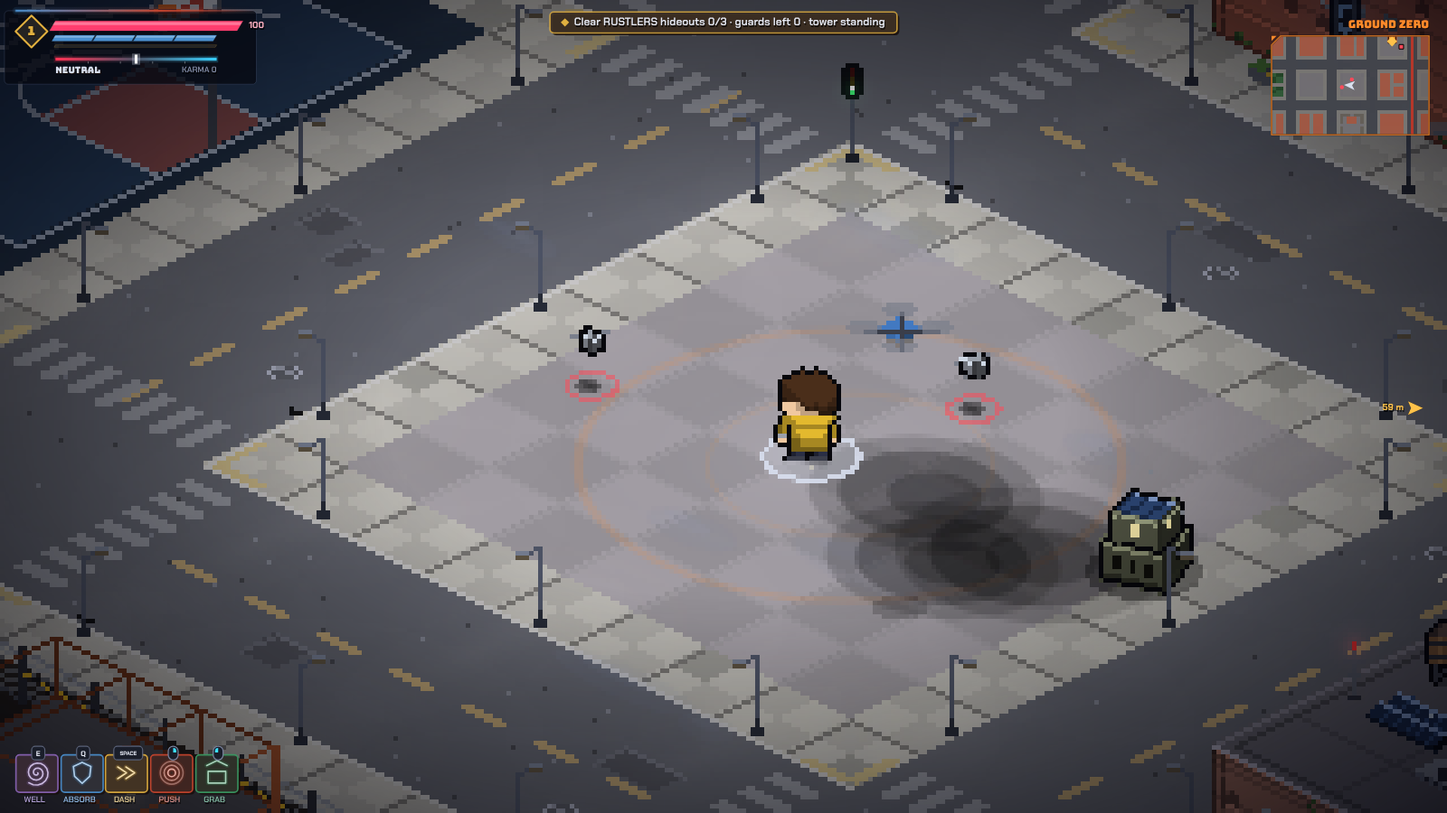
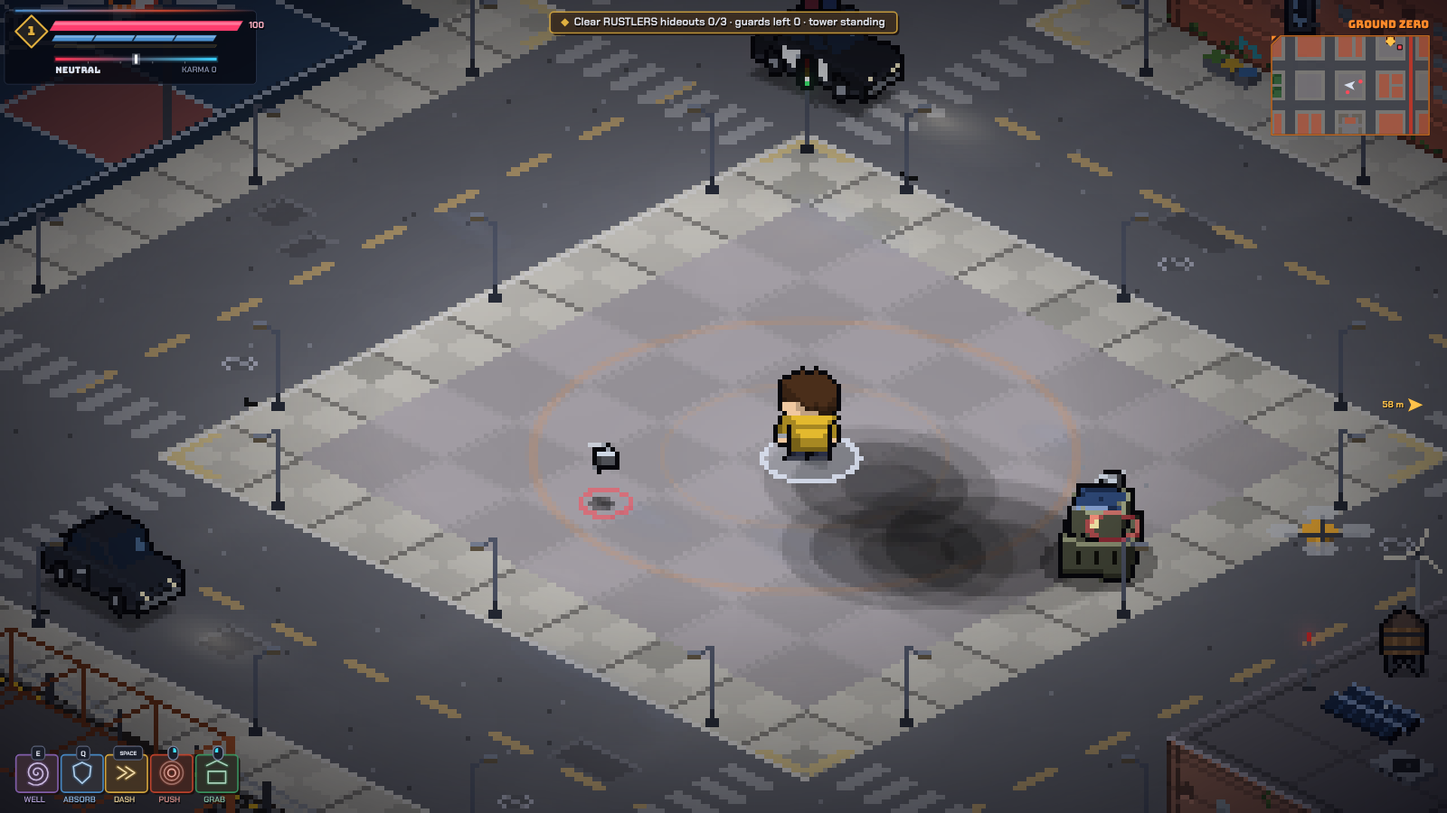
Readable fights: attack turns, longer tells, thin laser-line warnings
Only two enemies may wind up an attack on you at once (bosses exempt);
in a crowd of thirteen that cut simultaneous wind-ups from eight to at
most three and halved the hits taken. Tells were added or lengthened:
mites stop, flash and lunge along a line; the elite's fan and the
Architect's blink fan are warned first; boss throws show their line
before the throw; the pull's closing burst is signalled. Line warnings
are now a thin laser-pointer line from the attacker instead of a wide
band on the ground.

Claude-Session: https://claude.ai/code/session_01TQrqJid8SEs5fJFtrpg3VS

diff --git a/dist/gravitation.html b/dist/gravitation.html
@@ -1838,6 +1838,18 @@ function shoot(e, ang, o = {}) {
   bullets.push({ x: e.x + Math.cos(ang) * (e.r + 5), y: e.y + Math.sin(ang) * (e.r + 5), vx: Math.cos(ang) * sp, vy: Math.sin(ang) * sp, team: e.team, dmg: o.dmg || 7, life: o.life || 2.2, col: o.col || (e.team === 'police' ? '#8fc0ff' : '#ffcf5a'), r: o.r || 3, by: e.kind, fire: o.fire });
   if (!o.quiet) { sfx(o.fire ? 'zap' : 'shot', e.x, e.y, .7); FX.flash(e.x + Math.cos(ang) * (e.r + 8), e.y + Math.sin(ang) * (e.r + 8), 46, o.col || '#ffd27a', .07, .9); }
 }
+/* ---------- attack turns ----------
+   Fights are a rhythm, not a pile-on: only a few enemies may wind up an attack on you at the same moment (bosses and
+   anything not aimed at you are exempt). An enemy that cannot get a turn keeps moving and tries again shortly. Every
+   attack also has a tell you can read: an aim laser, a warning shape on the ground, a flash or a crouch. */
+const MAX_TURNS = 2, turns = [];
+function takeTurn(e, dur) {
+  if (e.kind === 'boss' || e.tgt !== P) return true;
+  const now = G.time; for (let i = turns.length - 1; i >= 0; i--) if (turns[i].until < now || turns[i].e.dead || turns[i].e.stun > 0) turns.splice(i, 1);
+  if (turns.some(t => t.e === e)) return true;
+  if (turns.length >= MAX_TURNS) { e.cd = Math.max(e.cd, rnd(.3, .7)); return false; }
+  turns.push({ e, until: now + dur }); return true;
+}
 function warnLine(x, y, ang, len, w, life, col = '#ff3355') { warns.push({ k: 'line', x, y, ang, len, w, life, max: life, col }); }
 function warnCircle(x, y, r, life, col = '#ff3355') { warns.push({ k: 'circle', x, y, r, life, max: life, col }); }
 
@@ -1893,7 +1905,7 @@ function aiGunman(e, dt) {
   if (!seen || d > pref + 50) chase(e, t, e.speed, dt);
   else if (d < pref - 70) steer(e, -nx, -ny, e.speed * .8, dt);
   else steer(e, -ny * e.strafeDir, nx * e.strafeDir, e.speed * .6, dt);
-  if (seen && d < 400 && e.cd <= 0) { e.aimT = .42; }
+  if (seen && d < 400 && e.cd <= 0 && takeTurn(e, 1.1)) { e.aimT = .55; }   // the aim laser is the tell
 }
 function aiBrute(e, dt) {
   const t = e.tgt, dx = t.x - e.x, dy = t.y - e.y, d = Math.hypot(dx, dy) || 1;
@@ -1914,8 +1926,8 @@ function aiBrute(e, dt) {
   }
   face(e, Math.atan2(dy, dx), dt, 7);
   chase(e, t, e.speed, dt);
-  if (d < e.r + t.r + 22 && e.cd <= 0) { e.state = 'slamWind'; e.stateT = .45; warnCircle(e.x, e.y, 70, .45); }
-  else if (d > 120 && d < 330 && e.cd2 <= 0 && seesTarget(e)) { e.state = 'chargeWind'; e.stateT = .6; e.cang = Math.atan2(dy, dx); e.cd2 = 4.5; warnLine(e.x, e.y, e.cang, 300, e.r * 2, .6); sfx('charge', e.x, e.y); }
+  if (d < e.r + t.r + 22 && e.cd <= 0 && takeTurn(e, 1)) { e.state = 'slamWind'; e.stateT = .6; warnCircle(e.x, e.y, 70, .6); }
+  else if (d > 120 && d < 330 && e.cd2 <= 0 && seesTarget(e) && takeTurn(e, 1.4)) { e.state = 'chargeWind'; e.stateT = .6; e.cang = Math.atan2(dy, dx); e.cd2 = 4.5; warnLine(e.x, e.y, e.cang, 300, e.r * 2, .6); sfx('charge', e.x, e.y); }
 }
 function slamAt(e, R, dmg, by) {
   FX.ring(e.x, e.y, R, '#ffae60', .3, 4); FX.dust(e.x, e.y, 12); sfx('heavy', e.x, e.y); shake(.35);
@@ -1930,13 +1942,13 @@ function aiSuper(e, dt) {
   face(e, Math.atan2(dy, dx), dt, 12);
   e.dashT = (e.dashT || 0) - dt; e.cd2 = (e.cd2 === undefined ? 1.6 : e.cd2) - dt;
   if (e.dashT > 0) { e.vx = e.dvx; e.vy = e.dvy; parts.push({ k: 'g', x: e.x, y: e.y, ang: e.ang, life: .25, max: .25, col: '#b66bff', sup: 1 }); return; }
-  if (e.cd2 <= 0 && d < 420 && seen) {
+  if (e.cd2 <= 0 && d < 420 && seen && takeTurn(e, 1)) {
     const s = Math.random() < .5 ? 1 : -1; e.dvx = (-dy / d * s * .8 + dx / d * .3) * 480; e.dvy = (dx / d * s * .8 + dy / d * .3) * 480; e.dashT = .26; e.cd2 = 2.8; sfx('dash', e.x, e.y, .6);
-    later(.32, () => {
-      if (e.dead || e.stun > 0 || !e.tgt) return; const a0 = Math.atan2(e.tgt.y - e.y, e.tgt.x - e.x);
+    later(.6, () => {   // the fan comes .6 s after the dash, with its warning cone shown the whole time
+      if (e.dead || e.stun > 0 || !e.tgt) return; const a0 = e.fanAng !== undefined ? e.fanAng : Math.atan2(e.tgt.y - e.y, e.tgt.x - e.x);
       for (let i = -2; i <= 2; i++) shoot(e, a0 + i * .17, { dmg: 7, speed: 250, col: '#d9a6ff', r: 4, quiet: i !== 0 });
     });
-    later(.06, () => { if (!e.dead && e.tgt) warnLine(e.x, e.y, Math.atan2(e.tgt.y - e.y, e.tgt.x - e.x), 260, 40, .26, '#c080ff'); });
+    later(.28, () => { if (!e.dead && e.tgt) { e.fanAng = Math.atan2(e.tgt.y - e.y, e.tgt.x - e.x); warnLine(e.x, e.y, e.fanAng, 260, 70, .32, '#c080ff'); } });
     return;
   }
   if (d > 230 || !seen) chase(e, t, e.speed, dt); else steer(e, -dy, dx, e.speed * .7, dt);
@@ -1989,7 +2001,8 @@ function aiBoss(e, dt) {
     const pull = 330 * dt; P.vx -= dx / d * pull * 2.4; P.vy -= dy / d * pull * 2.4;
     for (const o of act) if (o.prop && !o.held && dist(o, e) < 340) { o.vx += (e.x - o.x) / (dist(o, e) || 1) * 500 * dt; o.vy += (e.y - o.y) / (dist(o, e) || 1) * 500 * dt; }
     if (Math.random() < .7) { const a = rnd(TAU), r = rnd(80, 220); parts.push({ k: 'd', x: e.x + Math.cos(a) * r, y: e.y + Math.sin(a) * r, vx: -Math.cos(a) * 260, vy: -Math.sin(a) * 260, life: .4, max: .4, col: '#c9a6ff', w: 2 }); }
-    if (e.actT <= 0) { e.act = ''; radial(e, ph2 ? 22 : 16, 230, '#c9a6ff'); }
+    if (e.actT <= .5 && !e.pullWarned) { e.pullWarned = true; warnCircle(e.x, e.y, 120, .5, '#c9a6ff'); }   // the burst at the end of the pull is signalled
+    if (e.actT <= 0) { e.act = ''; e.pullWarned = false; radial(e, ph2 ? 22 : 16, 230, '#c9a6ff'); }
     return;
   }
   if (e.act === 'hurl' || e.act === 'volley') {
@@ -1999,12 +2012,16 @@ function aiBoss(e, dt) {
       o.vx = (e.x + Math.cos(a) * rr - o.x) * 10; o.vy = (e.y + Math.sin(a) * rr - o.y) * 10; o.z = 20;
     }
     if (e.actT <= 0) {
-      const o = e.lifted.shift();
-      if (o && !o.dead) {
-        o.bossHeld = null; o.held = false; const a = Math.atan2(P.y + P.vy * .3 - o.y, P.x + P.vx * .3 - o.x), sp = e.did === 2 ? 560 : 520;
-        o.vx = Math.cos(a) * sp; o.vy = Math.sin(a) * sp; o.thrower = 'boss'; o.thrownT = 1.6; o.spin = rnd(-10, 10); sfx('throw', o.x, o.y); warnLine(o.x, o.y, a, 360, o.r * 2, .25, '#ff3355');
+      const o = e.lifted[0];
+      if (o && !o.dead && !o.aimed) {   // the tell: a warning line from the object to where it will go, for .45 s, then the throw
+        o.aimed = true; o.aimA = Math.atan2(P.y + P.vy * .3 - o.y, P.x + P.vx * .3 - o.x); warnLine(o.x, o.y, o.aimA, 360, o.r * 2, .45, '#ff3355'); e.actT = .45; return;
       }
-      if (e.lifted.length) e.actT = e.did === 2 ? .45 : .6; else e.act = '';
+      e.lifted.shift();
+      if (o && !o.dead) {
+        o.bossHeld = null; o.held = false; o.aimed = false; const a = o.aimA, sp = e.did === 2 ? 560 : 520;
+        o.vx = Math.cos(a) * sp; o.vy = Math.sin(a) * sp; o.thrower = 'boss'; o.thrownT = 1.6; o.spin = rnd(-10, 10); sfx('throw', o.x, o.y);
+      }
+      if (e.lifted.length) e.actT = e.did === 2 ? .35 : .5; else e.act = '';
     }
     return;
   }
@@ -2047,7 +2064,8 @@ function aiBoss(e, dt) {
     if (p) {
       for (let i = 0; i < 6; i++) parts.push({ k: 'g', x: lerp(e.x, p.x, i / 6), y: lerp(e.y, p.y, i / 6), ang: e.ang, life: .4, max: .4, col: e.col, boss: 1 });
       FX.flash(e.x, e.y, 120, '#b06bff', .3); e.x = p.x; e.y = p.y; e.vx = e.vy = 0; FX.flash(e.x, e.y, 120, '#b06bff', .3); sfx('zap', e.x, e.y);
-      later(.35, () => { if (!e.dead && e.stagger <= 0) { const a0 = Math.atan2(P.y - e.y, P.x - e.x); for (let i = -2; i <= 2; i++) shoot(e, a0 + i * .2, { speed: 280, col: '#d9a6ff', dmg: 8, r: 4, quiet: i !== 0 }); } });
+      const a0b = Math.atan2(P.y - e.y, P.x - e.x); warnLine(e.x, e.y, a0b, 280, 90, .55, '#c080ff');   // a warning cone where the fan will go
+      later(.55, () => { if (!e.dead && e.stagger <= 0) { for (let i = -2; i <= 2; i++) shoot(e, a0b + i * .2, { speed: 280, col: '#d9a6ff', dmg: 8, r: 4, quiet: i !== 0 }); } });
     }
   }
 }
@@ -2181,7 +2199,7 @@ function aiTower(e, dt) {
   if (lk.aimT > 0) {
     lk.aimT -= dt;
     if (lk.aimT <= 0) { shoot(e, Math.atan2(P.y - e.y, P.x - e.x) + rnd(-.06, .06), { dmg: 7 }); e.cd = 1.4 + rnd(.9); }
-  } else if (e.cd <= 0) lk.aimT = .42;
+  } else if (e.cd <= 0 && takeTurn({ kind: 'tower', tgt: P, dead: e.dead, stun: 0, cd: 0 }, 1)) lk.aimT = .55;
 }
 
 /* ---------- per tick ---------- */
@@ -2507,7 +2525,7 @@ function aiMachine(e, dt) {
     if (!on || !e.losC) { e.aimT = 0; e.ang += dt * .9; return; }
     e.ang += angDiff(Math.atan2(P.y - e.y, P.x - e.x), e.ang) * Math.min(1, dt * 7);
     if (e.aimT > 0) { e.aimT -= dt; if (e.aimT <= 0) { for (let i = 0; i < 3; i++) later(i * .11, () => { if (!e.dead) shoot(e, e.ang + rnd(-.07, .07), { dmg: 5, speed: 340, col: '#ffd27a' }); }); e.cd = 1.8 + rnd(.6); } }
-    else if (e.cd <= 0) e.aimT = .6;
+    else if (e.cd <= 0 && takeTurn(Object.assign(e, { tgt: P }), 1.2)) e.aimT = .7;
     return;
   }
   if (k === 'hive') {      // a mite hive: a squat solar-topped box that releases mites while you are near
@@ -2551,7 +2569,7 @@ function aiMachine(e, dt) {
     }
     e.orb = e.orb || (Math.random() < .5 ? 1 : -1); if (Math.random() < dt * .3) e.orb *= -1;
     if (!seen || d > 230) chase(e, t, e.speed, dt); else if (d < 130) steer(e, -dx, -dy, e.speed, dt); else steer(e, -dy * e.orb, dx * e.orb, e.speed * .7, dt);
-    if (seen && d < 240 && e.cd <= 0) { e.chargeT = .75; e.cang = Math.atan2(dy, dx); warnLine(e.x, e.y, e.cang, 250, 8, .75, ZAP_COL); sfx('charge', e.x, e.y, .5); }
+    if (seen && d < 240 && e.cd <= 0 && takeTurn(e, 1.1)) { e.chargeT = .75; e.cang = Math.atan2(dy, dx); warnLine(e.x, e.y, e.cang, 250, 8, .75, ZAP_COL); sfx('charge', e.x, e.y, .5); }
     return;
   }
   if (k === 'crawler') {   // runs at you on four legs; close enough, it arms its battery and bursts
@@ -2563,8 +2581,16 @@ function aiMachine(e, dt) {
   if (k === 'mite') {      // darts in, nips, darts out
     e.dartT = (e.dartT || 0) - dt;
     if (e.dartT > 0) { steer(e, e.fx, e.fy, e.speed * 1.1, dt, 12); return; }
-    face(e, Math.atan2(dy, dx), dt, 14); steer(e, dx + rnd(-30, 30), dy + rnd(-30, 30), e.speed, dt, 10);
-    if (d < e.r + t.r + 4 && e.cd <= 0) { if (t === P && P.absorbing) absorb(4); else hurt(t, 4, { by: 'gang', src: e }); FX.sparks(t.x, t.y, 4, ZAP_COL, 140); sfx('zap', e.x, e.y, .3); e.cd = .9; e.dartT = .45; const a = rnd(TAU); e.fx = Math.cos(a); e.fy = Math.sin(a); }
+    if (e.lungeT > 0) {   // the tell: it stops, its eye flashes for .4 s, then it lunges in a straight line
+      e.lungeT -= dt; if (e.lungeT > .15) { steer(e, 0, 0, 0, dt, 12); return; }
+      steer(e, e.lx, e.ly, e.speed * 2.2, dt, 14);
+      if (d < e.r + t.r + 4) { if (t === P && P.absorbing) absorb(4); else hurt(t, 5, { by: 'gang', src: e }); FX.sparks(t.x, t.y, 4, ZAP_COL, 140); sfx('zap', e.x, e.y, .3); e.lungeT = 0; e.cd = 1.4; e.dartT = .5; const a = rnd(TAU); e.fx = Math.cos(a); e.fy = Math.sin(a); }
+      if (e.lungeT <= 0 && e.dartT <= 0) { e.cd = 1; e.dartT = .3; e.fx = -e.lx; e.fy = -e.ly; }
+      return;
+    }
+    face(e, Math.atan2(dy, dx), dt, 14);
+    if (d > 70) steer(e, dx + rnd(-30, 30), dy + rnd(-30, 30), e.speed, dt, 10); else steer(e, -dy * (e.id % 2 ? 1 : -1), dx * (e.id % 2 ? 1 : -1), e.speed * .7, dt, 8);   // circles at a little distance
+    if (d < 70 && e.cd <= 0 && takeTurn(e, .8)) { e.lungeT = .55; e.lx = dx / d; e.ly = dy / d; warnLine(e.x, e.y, Math.atan2(dy, dx), 80, 10, .4, ZAP_COL); sfx('charge', e.x, e.y, .25); }
     return;
   }
   if (k === 'loader') { e.tgt = t; aiBrute(e, dt); return; }
@@ -2572,7 +2598,7 @@ function aiMachine(e, dt) {
     if (e.dropT > 0) { e.dropT -= dt; steer(e, e.dx - e.x, e.dy - e.y, e.speed * 1.4, dt, 6); if (e.dropT <= 0) { explosion(e.dx, e.dy, 52, 18, 'gang'); e.cd = 3.2; e.parcel = false; later(2.4, () => { if (!e.dead) e.parcel = true; }); } return; }
     face(e, Math.atan2(dy, dx), dt, 6); e.orb = e.orb || (Math.random() < .5 ? 1 : -1);
     if (d > 160) chase(e, t, e.speed, dt); else steer(e, -dy * e.orb + dx * .2, dx * e.orb + dy * .2, e.speed * .8, dt);
-    if (e.parcel !== false && d < 220 && e.cd <= 0) { e.dx = t.x + (t.vx || 0) * .5; e.dy = t.y + (t.vy || 0) * .5; e.dropT = .9; warnCircle(e.dx, e.dy, 52, .9, '#ff9a3a'); sfx('charge', e.x, e.y, .4); }
+    if (e.parcel !== false && d < 220 && e.cd <= 0 && takeTurn(e, 1.2)) { e.dx = t.x + (t.vx || 0) * .5; e.dy = t.y + (t.vy || 0) * .5; e.dropT = .9; warnCircle(e.dx, e.dy, 52, .9, '#ff9a3a'); sfx('charge', e.x, e.y, .4); }
     return;
   }   // a heavy walker: slams and charges like a brute
 }
@@ -7090,10 +7116,11 @@ function drawWarns() {
       ctx.globalAlpha = .18 + .2 * k; gDither(w.x, w.y, w.r, col);
       ctx.globalAlpha = blink ? 1 : .6; gRing(w.x, w.y, w.r, col); gRing(w.x, w.y, w.r * k, mix(col, '#ffffff', .4));
     } else {
-      const c = Math.cos(w.ang), s = Math.sin(w.ang), nx = -s * w.w / 2, ny = c * w.w / 2;
-      const quad = len => [isoXY(w.x + nx, w.y + ny), isoXY(w.x + c * len + nx, w.y + s * len + ny), isoXY(w.x + c * len - nx, w.y + s * len - ny), isoXY(w.x - nx, w.y - ny)];
-      ctx.globalAlpha = .22; ipoly(quad(w.len), col); ctx.globalAlpha = .45 + .2 * k; ipoly(quad(w.len * k), col);
-      ctx.globalAlpha = blink ? 1 : .6; const q = quad(w.len); for (let i = 0; i < 4; i++) iline(q[i], q[(i + 1) % 4], col);
+      // a thin laser-pointer line from the attacker, not a band on the ground (the user finds big floor markings gaudy).
+      // It draws out from the attacker as the wind-up runs and blinks faster just before the attack.
+      const c = Math.cos(w.ang), s = Math.sin(w.ang), L = w.len * Math.min(1, .35 + k * .9), a0 = isoXY(w.x, w.y, 8), a1 = isoXY(w.x + c * L, w.y + s * L, 8);
+      const fast = k > .7 ? Math.sin(G.time * 60) > 0 : blink;
+      ctx.globalAlpha = fast ? .95 : .55; iline(a0, a1, col); ipx(a1[0], a1[1], '#ffffff');
     }
     ctx.globalAlpha = 1;
   }
@@ -8536,7 +8563,7 @@ function drawMachine(e) {
     const hov = (e.def.hover || 12) + Math.sin(t * 7 + e.id) * 1.2, P3 = mframe(e, hov); mshadow(e, 3, 1.5);
     const spin = Math.floor(t * 30) & 1;
     for (const v of [-4, 4]) { const c = P3(0, v, 4); iellipse(c[0], c[1], 2, 1, spin ? '#c8ccd6' : '#7a7f8c'); }
-    pixBox(e, P3, 0, 6, 5, 0, 4, W('#8a8e98'), W('#9aa0aa'), (i, quad) => { if (i === 0) quad(i, .35, .65, 1.5, 3, Math.sin(t * 9 + e.id) > 0 ? '#ff5a3a' : '#5a1a10'); });
+    const tell = e.lungeT > .15; pixBox(e, P3, 0, 6, 5, 0, 4, W(tell ? '#ffffff' : '#8a8e98'), W(tell ? '#ffffff' : '#9aa0aa'), (i, quad) => { if (i === 0) quad(i, .35, .65, 1.5, 3, tell || Math.sin(t * 9 + e.id) > 0 ? '#ff5a3a' : '#5a1a10'); }); if (tell) { const c = P3(0, 0, 2); iglow(c[0], c[1], 6, '#fff0b0', .6); }
     return;
   }
   if (k === 'crawler') {   // repo crawler: a low body on four legs, a battery pack on its back

diff --git a/src/js/09_ai.js b/src/js/09_ai.js
@@ -49,6 +49,18 @@ function shoot(e, ang, o = {}) {
   bullets.push({ x: e.x + Math.cos(ang) * (e.r + 5), y: e.y + Math.sin(ang) * (e.r + 5), vx: Math.cos(ang) * sp, vy: Math.sin(ang) * sp, team: e.team, dmg: o.dmg || 7, life: o.life || 2.2, col: o.col || (e.team === 'police' ? '#8fc0ff' : '#ffcf5a'), r: o.r || 3, by: e.kind, fire: o.fire });
   if (!o.quiet) { sfx(o.fire ? 'zap' : 'shot', e.x, e.y, .7); FX.flash(e.x + Math.cos(ang) * (e.r + 8), e.y + Math.sin(ang) * (e.r + 8), 46, o.col || '#ffd27a', .07, .9); }
 }
+/* ---------- attack turns ----------
+   Fights are a rhythm, not a pile-on: only a few enemies may wind up an attack on you at the same moment (bosses and
+   anything not aimed at you are exempt). An enemy that cannot get a turn keeps moving and tries again shortly. Every
+   attack also has a tell you can read: an aim laser, a warning shape on the ground, a flash or a crouch. */
+const MAX_TURNS = 2, turns = [];
+function takeTurn(e, dur) {
+  if (e.kind === 'boss' || e.tgt !== P) return true;
+  const now = G.time; for (let i = turns.length - 1; i >= 0; i--) if (turns[i].until < now || turns[i].e.dead || turns[i].e.stun > 0) turns.splice(i, 1);
+  if (turns.some(t => t.e === e)) return true;
+  if (turns.length >= MAX_TURNS) { e.cd = Math.max(e.cd, rnd(.3, .7)); return false; }
+  turns.push({ e, until: now + dur }); return true;
+}
 function warnLine(x, y, ang, len, w, life, col = '#ff3355') { warns.push({ k: 'line', x, y, ang, len, w, life, max: life, col }); }
 function warnCircle(x, y, r, life, col = '#ff3355') { warns.push({ k: 'circle', x, y, r, life, max: life, col }); }
 
@@ -104,7 +116,7 @@ function aiGunman(e, dt) {
   if (!seen || d > pref + 50) chase(e, t, e.speed, dt);
   else if (d < pref - 70) steer(e, -nx, -ny, e.speed * .8, dt);
   else steer(e, -ny * e.strafeDir, nx * e.strafeDir, e.speed * .6, dt);
-  if (seen && d < 400 && e.cd <= 0) { e.aimT = .42; }
+  if (seen && d < 400 && e.cd <= 0 && takeTurn(e, 1.1)) { e.aimT = .55; }   // the aim laser is the tell
 }
 function aiBrute(e, dt) {
   const t = e.tgt, dx = t.x - e.x, dy = t.y - e.y, d = Math.hypot(dx, dy) || 1;
@@ -125,8 +137,8 @@ function aiBrute(e, dt) {
   }
   face(e, Math.atan2(dy, dx), dt, 7);
   chase(e, t, e.speed, dt);
-  if (d < e.r + t.r + 22 && e.cd <= 0) { e.state = 'slamWind'; e.stateT = .45; warnCircle(e.x, e.y, 70, .45); }
-  else if (d > 120 && d < 330 && e.cd2 <= 0 && seesTarget(e)) { e.state = 'chargeWind'; e.stateT = .6; e.cang = Math.atan2(dy, dx); e.cd2 = 4.5; warnLine(e.x, e.y, e.cang, 300, e.r * 2, .6); sfx('charge', e.x, e.y); }
+  if (d < e.r + t.r + 22 && e.cd <= 0 && takeTurn(e, 1)) { e.state = 'slamWind'; e.stateT = .6; warnCircle(e.x, e.y, 70, .6); }
+  else if (d > 120 && d < 330 && e.cd2 <= 0 && seesTarget(e) && takeTurn(e, 1.4)) { e.state = 'chargeWind'; e.stateT = .6; e.cang = Math.atan2(dy, dx); e.cd2 = 4.5; warnLine(e.x, e.y, e.cang, 300, e.r * 2, .6); sfx('charge', e.x, e.y); }
 }
 function slamAt(e, R, dmg, by) {
   FX.ring(e.x, e.y, R, '#ffae60', .3, 4); FX.dust(e.x, e.y, 12); sfx('heavy', e.x, e.y); shake(.35);
@@ -141,13 +153,13 @@ function aiSuper(e, dt) {
   face(e, Math.atan2(dy, dx), dt, 12);
   e.dashT = (e.dashT || 0) - dt; e.cd2 = (e.cd2 === undefined ? 1.6 : e.cd2) - dt;
   if (e.dashT > 0) { e.vx = e.dvx; e.vy = e.dvy; parts.push({ k: 'g', x: e.x, y: e.y, ang: e.ang, life: .25, max: .25, col: '#b66bff', sup: 1 }); return; }
-  if (e.cd2 <= 0 && d < 420 && seen) {
+  if (e.cd2 <= 0 && d < 420 && seen && takeTurn(e, 1)) {
     const s = Math.random() < .5 ? 1 : -1; e.dvx = (-dy / d * s * .8 + dx / d * .3) * 480; e.dvy = (dx / d * s * .8 + dy / d * .3) * 480; e.dashT = .26; e.cd2 = 2.8; sfx('dash', e.x, e.y, .6);
-    later(.32, () => {
-      if (e.dead || e.stun > 0 || !e.tgt) return; const a0 = Math.atan2(e.tgt.y - e.y, e.tgt.x - e.x);
+    later(.6, () => {   // the fan comes .6 s after the dash, with its warning cone shown the whole time
+      if (e.dead || e.stun > 0 || !e.tgt) return; const a0 = e.fanAng !== undefined ? e.fanAng : Math.atan2(e.tgt.y - e.y, e.tgt.x - e.x);
       for (let i = -2; i <= 2; i++) shoot(e, a0 + i * .17, { dmg: 7, speed: 250, col: '#d9a6ff', r: 4, quiet: i !== 0 });
     });
-    later(.06, () => { if (!e.dead && e.tgt) warnLine(e.x, e.y, Math.atan2(e.tgt.y - e.y, e.tgt.x - e.x), 260, 40, .26, '#c080ff'); });
+    later(.28, () => { if (!e.dead && e.tgt) { e.fanAng = Math.atan2(e.tgt.y - e.y, e.tgt.x - e.x); warnLine(e.x, e.y, e.fanAng, 260, 70, .32, '#c080ff'); } });
     return;
   }
   if (d > 230 || !seen) chase(e, t, e.speed, dt); else steer(e, -dy, dx, e.speed * .7, dt);
@@ -200,7 +212,8 @@ function aiBoss(e, dt) {
     const pull = 330 * dt; P.vx -= dx / d * pull * 2.4; P.vy -= dy / d * pull * 2.4;
     for (const o of act) if (o.prop && !o.held && dist(o, e) < 340) { o.vx += (e.x - o.x) / (dist(o, e) || 1) * 500 * dt; o.vy += (e.y - o.y) / (dist(o, e) || 1) * 500 * dt; }
     if (Math.random() < .7) { const a = rnd(TAU), r = rnd(80, 220); parts.push({ k: 'd', x: e.x + Math.cos(a) * r, y: e.y + Math.sin(a) * r, vx: -Math.cos(a) * 260, vy: -Math.sin(a) * 260, life: .4, max: .4, col: '#c9a6ff', w: 2 }); }
-    if (e.actT <= 0) { e.act = ''; radial(e, ph2 ? 22 : 16, 230, '#c9a6ff'); }
+    if (e.actT <= .5 && !e.pullWarned) { e.pullWarned = true; warnCircle(e.x, e.y, 120, .5, '#c9a6ff'); }   // the burst at the end of the pull is signalled
+    if (e.actT <= 0) { e.act = ''; e.pullWarned = false; radial(e, ph2 ? 22 : 16, 230, '#c9a6ff'); }
     return;
   }
   if (e.act === 'hurl' || e.act === 'volley') {
@@ -210,12 +223,16 @@ function aiBoss(e, dt) {
       o.vx = (e.x + Math.cos(a) * rr - o.x) * 10; o.vy = (e.y + Math.sin(a) * rr - o.y) * 10; o.z = 20;
     }
     if (e.actT <= 0) {
-      const o = e.lifted.shift();
-      if (o && !o.dead) {
-        o.bossHeld = null; o.held = false; const a = Math.atan2(P.y + P.vy * .3 - o.y, P.x + P.vx * .3 - o.x), sp = e.did === 2 ? 560 : 520;
-        o.vx = Math.cos(a) * sp; o.vy = Math.sin(a) * sp; o.thrower = 'boss'; o.thrownT = 1.6; o.spin = rnd(-10, 10); sfx('throw', o.x, o.y); warnLine(o.x, o.y, a, 360, o.r * 2, .25, '#ff3355');
+      const o = e.lifted[0];
+      if (o && !o.dead && !o.aimed) {   // the tell: a warning line from the object to where it will go, for .45 s, then the throw
+        o.aimed = true; o.aimA = Math.atan2(P.y + P.vy * .3 - o.y, P.x + P.vx * .3 - o.x); warnLine(o.x, o.y, o.aimA, 360, o.r * 2, .45, '#ff3355'); e.actT = .45; return;
       }
-      if (e.lifted.length) e.actT = e.did === 2 ? .45 : .6; else e.act = '';
+      e.lifted.shift();
+      if (o && !o.dead) {
+        o.bossHeld = null; o.held = false; o.aimed = false; const a = o.aimA, sp = e.did === 2 ? 560 : 520;
+        o.vx = Math.cos(a) * sp; o.vy = Math.sin(a) * sp; o.thrower = 'boss'; o.thrownT = 1.6; o.spin = rnd(-10, 10); sfx('throw', o.x, o.y);
+      }
+      if (e.lifted.length) e.actT = e.did === 2 ? .35 : .5; else e.act = '';
     }
     return;
   }
@@ -258,7 +275,8 @@ function aiBoss(e, dt) {
     if (p) {
       for (let i = 0; i < 6; i++) parts.push({ k: 'g', x: lerp(e.x, p.x, i / 6), y: lerp(e.y, p.y, i / 6), ang: e.ang, life: .4, max: .4, col: e.col, boss: 1 });
       FX.flash(e.x, e.y, 120, '#b06bff', .3); e.x = p.x; e.y = p.y; e.vx = e.vy = 0; FX.flash(e.x, e.y, 120, '#b06bff', .3); sfx('zap', e.x, e.y);
-      later(.35, () => { if (!e.dead && e.stagger <= 0) { const a0 = Math.atan2(P.y - e.y, P.x - e.x); for (let i = -2; i <= 2; i++) shoot(e, a0 + i * .2, { speed: 280, col: '#d9a6ff', dmg: 8, r: 4, quiet: i !== 0 }); } });
+      const a0b = Math.atan2(P.y - e.y, P.x - e.x); warnLine(e.x, e.y, a0b, 280, 90, .55, '#c080ff');   // a warning cone where the fan will go
+      later(.55, () => { if (!e.dead && e.stagger <= 0) { for (let i = -2; i <= 2; i++) shoot(e, a0b + i * .2, { speed: 280, col: '#d9a6ff', dmg: 8, r: 4, quiet: i !== 0 }); } });
     }
   }
 }
@@ -392,7 +410,7 @@ function aiTower(e, dt) {
   if (lk.aimT > 0) {
     lk.aimT -= dt;
     if (lk.aimT <= 0) { shoot(e, Math.atan2(P.y - e.y, P.x - e.x) + rnd(-.06, .06), { dmg: 7 }); e.cd = 1.4 + rnd(.9); }
-  } else if (e.cd <= 0) lk.aimT = .42;
+  } else if (e.cd <= 0 && takeTurn({ kind: 'tower', tgt: P, dead: e.dead, stun: 0, cd: 0 }, 1)) lk.aimT = .55;
 }
 
 /* ---------- per tick ---------- */

diff --git a/src/js/09c_machines.js b/src/js/09c_machines.js
@@ -104,7 +104,7 @@ function aiMachine(e, dt) {
     if (!on || !e.losC) { e.aimT = 0; e.ang += dt * .9; return; }
     e.ang += angDiff(Math.atan2(P.y - e.y, P.x - e.x), e.ang) * Math.min(1, dt * 7);
     if (e.aimT > 0) { e.aimT -= dt; if (e.aimT <= 0) { for (let i = 0; i < 3; i++) later(i * .11, () => { if (!e.dead) shoot(e, e.ang + rnd(-.07, .07), { dmg: 5, speed: 340, col: '#ffd27a' }); }); e.cd = 1.8 + rnd(.6); } }
-    else if (e.cd <= 0) e.aimT = .6;
+    else if (e.cd <= 0 && takeTurn(Object.assign(e, { tgt: P }), 1.2)) e.aimT = .7;
     return;
   }
   if (k === 'hive') {      // a mite hive: a squat solar-topped box that releases mites while you are near
@@ -148,7 +148,7 @@ function aiMachine(e, dt) {
     }
     e.orb = e.orb || (Math.random() < .5 ? 1 : -1); if (Math.random() < dt * .3) e.orb *= -1;
     if (!seen || d > 230) chase(e, t, e.speed, dt); else if (d < 130) steer(e, -dx, -dy, e.speed, dt); else steer(e, -dy * e.orb, dx * e.orb, e.speed * .7, dt);
-    if (seen && d < 240 && e.cd <= 0) { e.chargeT = .75; e.cang = Math.atan2(dy, dx); warnLine(e.x, e.y, e.cang, 250, 8, .75, ZAP_COL); sfx('charge', e.x, e.y, .5); }
+    if (seen && d < 240 && e.cd <= 0 && takeTurn(e, 1.1)) { e.chargeT = .75; e.cang = Math.atan2(dy, dx); warnLine(e.x, e.y, e.cang, 250, 8, .75, ZAP_COL); sfx('charge', e.x, e.y, .5); }
     return;
   }
   if (k === 'crawler') {   // runs at you on four legs; close enough, it arms its battery and bursts
@@ -160,8 +160,16 @@ function aiMachine(e, dt) {
   if (k === 'mite') {      // darts in, nips, darts out
     e.dartT = (e.dartT || 0) - dt;
     if (e.dartT > 0) { steer(e, e.fx, e.fy, e.speed * 1.1, dt, 12); return; }
-    face(e, Math.atan2(dy, dx), dt, 14); steer(e, dx + rnd(-30, 30), dy + rnd(-30, 30), e.speed, dt, 10);
-    if (d < e.r + t.r + 4 && e.cd <= 0) { if (t === P && P.absorbing) absorb(4); else hurt(t, 4, { by: 'gang', src: e }); FX.sparks(t.x, t.y, 4, ZAP_COL, 140); sfx('zap', e.x, e.y, .3); e.cd = .9; e.dartT = .45; const a = rnd(TAU); e.fx = Math.cos(a); e.fy = Math.sin(a); }
+    if (e.lungeT > 0) {   // the tell: it stops, its eye flashes for .4 s, then it lunges in a straight line
+      e.lungeT -= dt; if (e.lungeT > .15) { steer(e, 0, 0, 0, dt, 12); return; }
+      steer(e, e.lx, e.ly, e.speed * 2.2, dt, 14);
+      if (d < e.r + t.r + 4) { if (t === P && P.absorbing) absorb(4); else hurt(t, 5, { by: 'gang', src: e }); FX.sparks(t.x, t.y, 4, ZAP_COL, 140); sfx('zap', e.x, e.y, .3); e.lungeT = 0; e.cd = 1.4; e.dartT = .5; const a = rnd(TAU); e.fx = Math.cos(a); e.fy = Math.sin(a); }
+      if (e.lungeT <= 0 && e.dartT <= 0) { e.cd = 1; e.dartT = .3; e.fx = -e.lx; e.fy = -e.ly; }
+      return;
+    }
+    face(e, Math.atan2(dy, dx), dt, 14);
+    if (d > 70) steer(e, dx + rnd(-30, 30), dy + rnd(-30, 30), e.speed, dt, 10); else steer(e, -dy * (e.id % 2 ? 1 : -1), dx * (e.id % 2 ? 1 : -1), e.speed * .7, dt, 8);   // circles at a little distance
+    if (d < 70 && e.cd <= 0 && takeTurn(e, .8)) { e.lungeT = .55; e.lx = dx / d; e.ly = dy / d; warnLine(e.x, e.y, Math.atan2(dy, dx), 80, 10, .4, ZAP_COL); sfx('charge', e.x, e.y, .25); }
     return;
   }
   if (k === 'loader') { e.tgt = t; aiBrute(e, dt); return; }
@@ -169,7 +177,7 @@ function aiMachine(e, dt) {
     if (e.dropT > 0) { e.dropT -= dt; steer(e, e.dx - e.x, e.dy - e.y, e.speed * 1.4, dt, 6); if (e.dropT <= 0) { explosion(e.dx, e.dy, 52, 18, 'gang'); e.cd = 3.2; e.parcel = false; later(2.4, () => { if (!e.dead) e.parcel = true; }); } return; }
     face(e, Math.atan2(dy, dx), dt, 6); e.orb = e.orb || (Math.random() < .5 ? 1 : -1);
     if (d > 160) chase(e, t, e.speed, dt); else steer(e, -dy * e.orb + dx * .2, dx * e.orb + dy * .2, e.speed * .8, dt);
-    if (e.parcel !== false && d < 220 && e.cd <= 0) { e.dx = t.x + (t.vx || 0) * .5; e.dy = t.y + (t.vy || 0) * .5; e.dropT = .9; warnCircle(e.dx, e.dy, 52, .9, '#ff9a3a'); sfx('charge', e.x, e.y, .4); }
+    if (e.parcel !== false && d < 220 && e.cd <= 0 && takeTurn(e, 1.2)) { e.dx = t.x + (t.vx || 0) * .5; e.dy = t.y + (t.vy || 0) * .5; e.dropT = .9; warnCircle(e.dx, e.dy, 52, .9, '#ff9a3a'); sfx('charge', e.x, e.y, .4); }
     return;
   }   // a heavy walker: slams and charges like a brute
 }

diff --git a/test/tells.js b/test/tells.js
@@ -1,0 +1,23 @@
+// Readable fights: every attack has a tell, and only a few enemies wind up an attack on you at once.
+// Stands the hero in a crowd and records, every tick, how many attacks are winding up and how many hits land with no tell.
+const { chromium } = require('playwright'); const path = require('path'); const ROOT = path.resolve(__dirname, '..');
+(async () => {
+  const b = await chromium.launch(); const p = await b.newPage(); const errs = []; p.on('pageerror', e => errs.push(e.message));
+  const ok = (n, v, d) => console.log((v ? 'ok   ' : 'FAIL ') + n + (d ? '  — ' + d : ''));
+  await p.goto('file://' + ROOT + '/dist/gravitation.html'); await p.waitForTimeout(400);
+  const r = await p.evaluate(() => {
+    localStorage.clear(); KC.start(); KC.skip(); G.seen = new Proxy({}, { get: () => 1, set: () => true });
+    const x = 1008, y = 1392; for (const e of ents) if (e !== P && !e.dead && e.kind !== 'hideout' && e.kind !== 'tower' && Math.hypot(e.x - x, e.y - y) < 700) e.dead = true; KC.tp(x, y);
+    const mix = ['grunt', 'grunt', 'grunt', 'grunt', 'brute', 'sup', 'zapper', 'zapper', 'mite', 'mite', 'mite', 'courier', 'crawler'];
+    mix.forEach((k, i) => { const a = i / mix.length * 6.28; const g = spawnGang(k, x + Math.cos(a) * 150, y + Math.sin(a) * 150, { home: { x, y }, terr: 600 }); g.tgt = P; g.provT = 999; });
+    const winding = e => e.aimT > 0 || e.state === 'slamWind' || e.state === 'chargeWind' || e.chargeT > 0 || e.dropT > 0 || e.lungeT > .15 || e.state === 'arm';
+    let maxW = 0, sumW = 0, n = 0, hits = 0, hp0 = 0; const realHurt = hurt; let untold = 0;
+    hurt = function (e, dmg, info) { if (e === P && dmg > 0 && P.invT <= 0 && P.dashT <= 0) { hits++; } return realHurt.apply(this, arguments); };
+    for (let i = 0; i < 60 * 45; i++) { P.hp = S.maxHp; P.invT = 0; KC.step(1); let w = 0; for (const e of act) if (!e.dead && e.tgt === P && winding(e)) w++; maxW = Math.max(maxW, w); sumW += w; n++; }
+    hurt = realHurt;
+    return { maxWinding: maxW, avgWinding: +(sumW / n).toFixed(2), hitsPerMinute: Math.round(hits / 45 * 60), turnsCap: MAX_TURNS };
+  });
+  console.log(JSON.stringify(r));
+  ok('never more than ' + r.turnsCap + ' enemies (plus the odd crawler already armed) winding up at once', r.maxWinding <= r.turnsCap + 1, 'most at once: ' + r.maxWinding);
+  console.log(errs.join('\n') || 'no errors'); await b.close();
+})();

diff --git a/src/js/11e_fx.js b/src/js/11e_fx.js
@@ -63,10 +63,11 @@ function drawWarns() {
       ctx.globalAlpha = .18 + .2 * k; gDither(w.x, w.y, w.r, col);
       ctx.globalAlpha = blink ? 1 : .6; gRing(w.x, w.y, w.r, col); gRing(w.x, w.y, w.r * k, mix(col, '#ffffff', .4));
     } else {
-      const c = Math.cos(w.ang), s = Math.sin(w.ang), nx = -s * w.w / 2, ny = c * w.w / 2;
-      const quad = len => [isoXY(w.x + nx, w.y + ny), isoXY(w.x + c * len + nx, w.y + s * len + ny), isoXY(w.x + c * len - nx, w.y + s * len - ny), isoXY(w.x - nx, w.y - ny)];
-      ctx.globalAlpha = .22; ipoly(quad(w.len), col); ctx.globalAlpha = .45 + .2 * k; ipoly(quad(w.len * k), col);
-      ctx.globalAlpha = blink ? 1 : .6; const q = quad(w.len); for (let i = 0; i < 4; i++) iline(q[i], q[(i + 1) % 4], col);
+      // a thin laser-pointer line from the attacker, not a band on the ground (the user finds big floor markings gaudy).
+      // It draws out from the attacker as the wind-up runs and blinks faster just before the attack.
+      const c = Math.cos(w.ang), s = Math.sin(w.ang), L = w.len * Math.min(1, .35 + k * .9), a0 = isoXY(w.x, w.y, 8), a1 = isoXY(w.x + c * L, w.y + s * L, 8);
+      const fast = k > .7 ? Math.sin(G.time * 60) > 0 : blink;
+      ctx.globalAlpha = fast ? .95 : .55; iline(a0, a1, col); ipx(a1[0], a1[1], '#ffffff');
     }
     ctx.globalAlpha = 1;
   }

diff --git a/src/js/11k_machines.js b/src/js/11k_machines.js
@@ -47,7 +47,7 @@ function drawMachine(e) {
     const hov = (e.def.hover || 12) + Math.sin(t * 7 + e.id) * 1.2, P3 = mframe(e, hov); mshadow(e, 3, 1.5);
     const spin = Math.floor(t * 30) & 1;
     for (const v of [-4, 4]) { const c = P3(0, v, 4); iellipse(c[0], c[1], 2, 1, spin ? '#c8ccd6' : '#7a7f8c'); }
-    pixBox(e, P3, 0, 6, 5, 0, 4, W('#8a8e98'), W('#9aa0aa'), (i, quad) => { if (i === 0) quad(i, .35, .65, 1.5, 3, Math.sin(t * 9 + e.id) > 0 ? '#ff5a3a' : '#5a1a10'); });
+    const tell = e.lungeT > .15; pixBox(e, P3, 0, 6, 5, 0, 4, W(tell ? '#ffffff' : '#8a8e98'), W(tell ? '#ffffff' : '#9aa0aa'), (i, quad) => { if (i === 0) quad(i, .35, .65, 1.5, 3, tell || Math.sin(t * 9 + e.id) > 0 ? '#ff5a3a' : '#5a1a10'); }); if (tell) { const c = P3(0, 0, 2); iglow(c[0], c[1], 6, '#fff0b0', .6); }
     return;
   }
   if (k === 'crawler') {   // repo crawler: a low body on four legs, a battery pack on its back

diff --git a/HANDOFF.md b/HANDOFF.md
@@ -35,6 +35,7 @@ A prototype of a top-down superhero/supervillain game inspired by inFamous, GTA 
 - **The world's flavour (the user's own description, 2026-11-27; keep to it):** a down-to-earth near future, "solarpunk mixed with dystopian capitalism". Capitalism lasted long enough to make technology powerful enough to fill some of its own holes: people build their own software and hardware with AI help, wire up their own solar panels and grow their own food, and survive what was a slow apocalypse of sorts, yet the city is still a pretty cool place to live. Keep the ordinary modern city look; tech can be strange and inventive (lasers, AI, drones, e.g. solar-panelled drones that shoot electricity), but **never pink/purple/blue neon cyberpunk**. The red laser barricade is fine. Good source of new enemies and environmental hazards.
 - **Machines and hazards (09c_machines.js, drawn in 11k_machines.js), first batch made on the user's free-roam brief; awaiting their picks:** solar street sweepers (team `bot`, harmless, drop energy), spark drones (`zapper`, hover over car parks, telegraphed lightning bolt), repo crawlers (`crawler`, run at you and burst), sentry posts (`sentry`, static turret by each hideout gate, does not hold the gate), loader mechs (`loader`, heavy walker outside each yard, fights like a brute), mites (`mite`, tiny swarm drones; not placed in the world yet), battery banks (`cell`, throwable, burst with electricity and chain), downed power lines (`hazards`, arc on a cycle, hurt anything but civilians). Batch 2: mite hives (`hive`, static, in overgrown parks, release up to 6 mites while you are near), scanner drones (`scanner`, patrol; when the cone fills on you every gang member and machine within 420 px comes for you), heliostats (`mirror`, static, round courts and the Tower plaza; by day and at sunset they track you with a sun-spot that burns once it heats up; idle at night). Batch 3 (fight tools): racks of spare solar panels (`panels`, static prop in car parks, yards and by hideouts; break them and glass shards cut everything within 90 px), street water tanks (`wtank`, in parks, yards and courts; burst one and it floods 70 px for 18 s: ground machines in the water short out, and any electricity reaching the water (battery or crawler burst, a live power line) hits everyone standing in it, you included), rogue couriers (`courier`, high-flying delivery drones that mark a spot on you and drop an explosive parcel; one in Ground Zero, more later). Street furniture and delivery drones: `11l_street_life.js`. Friendly machines (team `bot`): walking vending robots (`vendbot`; people stop at them; stand next to one and it hands you a drink = energy, every 25 s) and repair drones (`fixer`; fly over the roofs to downed power lines and make them safe for 60 s, otherwise tend the charging posts). Electricity is pale yellow-white. `node test/machines.js`. **Every new object must be drawn in the same isometric projection as the props (oriented `pixBox` boxes via `propFrame`, or `isoXY` shapes), never as a flat front-on sprite.** The user rejected the first, flat version of these machines for exactly that ("we went through all of this before").
 - **People have roles** (`09d_people.js`, the user asked for the street to feel alive, not background noise). Walkers streamed in as before but as commuter / stroller / jogger / gawker, each with its own pace and habits; anyone may stop to chat with someone passing, listen to a busker or queue at a food cart. Placed people who stay at their spot: buskers (music notes, coins in the case), food-cart vendors (an iso cart with a striped awning), gardeners at planters, tinkerers at charging posts, kids chasing each other in parks. Gawkers film explosions instead of running. Small speech bubbles show what they are doing. How easily each one panics varies (`roleFear`). Behaviour only: no sprite changes.
+- **Attack tells (user's rule):** the player should lose to a choreographed attack they misread, never to being swarmed. Every attack has a tell, and `takeTurn` (09_ai.js) lets only 2 enemies wind up an attack on you at once (bosses exempt). **The user dislikes big warning shapes on the ground** ("gaudy"): line warnings are drawn as a thin laser-pointer line from the attacker (`drawWarns` in 11e_fx.js); keep tells on the enemy and as thin lines, not floor bands.
 - **Signed off by the user (2026-11-27):** current enemies are fine as placeholders for now; the music, sound effects and soundtrack are fine.
 - **Times of day** (`04b_times.js`): `sunset`, `night` and `day`, each ONLY colours and light (the user was explicit: no sprite or drawing changes). `applyTime(name)` repaints district palettes and each building's wall, roof and window colours, sets the light levels in `LIGHT` (glow, light pools, lamps lit, wash, how green, how light the water) and clears the cached pictures. The user wants to keep all three and use them per story section later. For now it is a setting (Settings → Display → Time of day, `SETTINGS.time`, default sunset, my pick) and `KC.time(name)`. Signs keep their shapes but are painted shop colours (`NEON_GOOD`/`NEON_EVIL` in 04_world.js keep their old names); roof trims are off. `node test/times.js`.
 - **Weather** (`WEATHER` in 04b_times.js): the user wants a rainy city where rain is real weather, not decoration: showers come and go by themselves at any time of day (showers 70–160 s, dry spells 50–110 s, wet about 60% of the time, 6 s fade). Rain streaks, splashes, the rain sound, an overcast wash by day and **umbrellas** all follow `WEATHER.rain`; the user asked for extra care that nobody carries an umbrella when it is dry. `setWeather('rain'|'dry'|'auto')` / `KC.weather(...)` for the story and tests.
